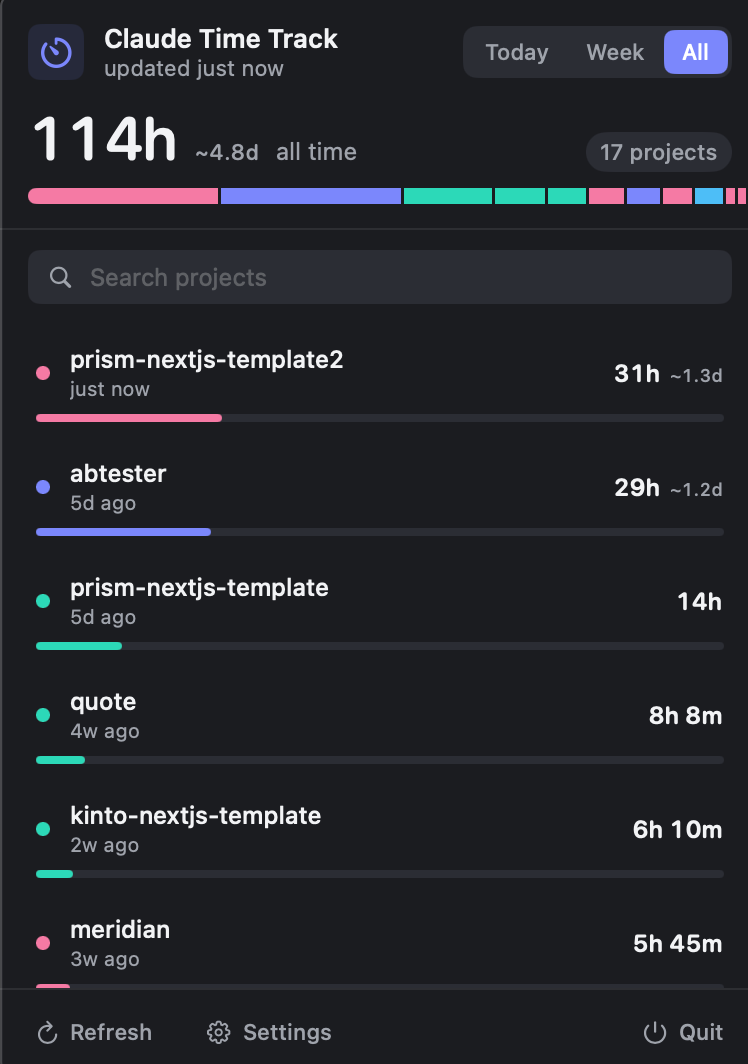
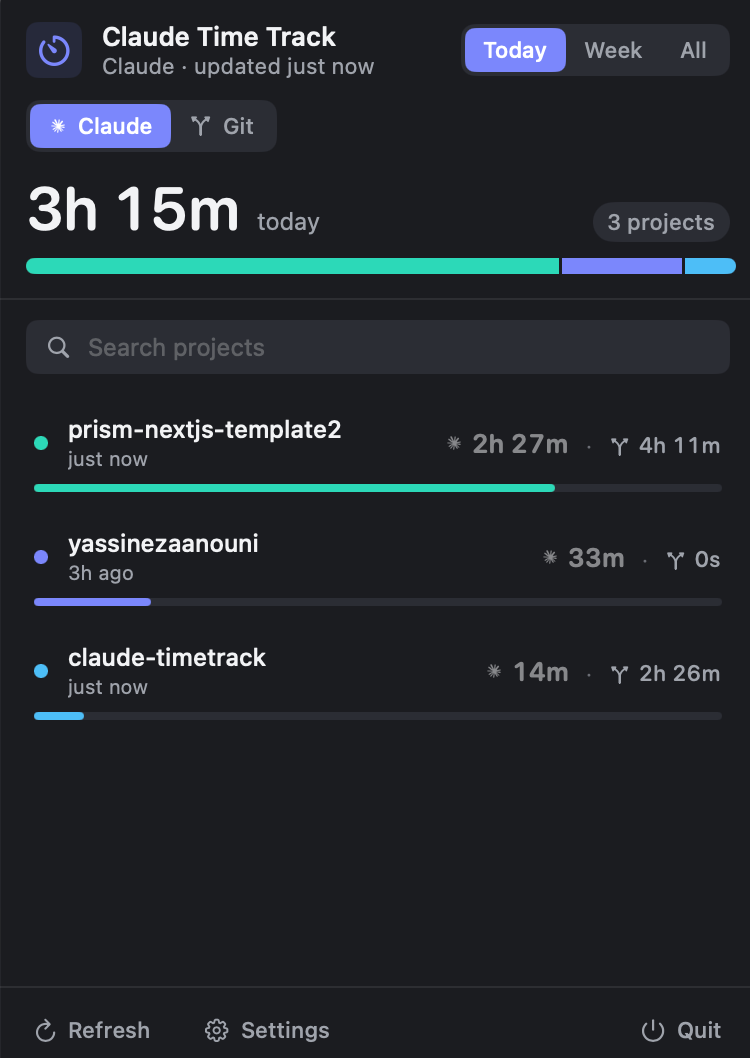
Fix Settings header gap, refresh README and screenshots
The Color.clear spacer in the Settings header had no height constraint,
so Color's height-greedy default stretched the HStack to fill the
popover, leaving the title vertically centered with huge whitespace
above and below. Pinned to height: 1.

Also tightened the README and replaced the screenshots with shots that
show the dual Claude/Git source UX.

diff --git a/Views/SettingsView.swift b/Views/SettingsView.swift
@@ -31,8 +31,8 @@ struct SettingsView: View {
 
                 Spacer()
 
-                // balance spacing
-                Color.clear.frame(width: 40)
+                // balance spacing so the title sits visually centered
+                Color.clear.frame(width: 40, height: 1)
             }
             .padding(.horizontal, 14)
             .padding(.top, 14)

diff --git a/README.md b/README.md
@@ -1,117 +1,43 @@
 # Claude Time Track
 
-A macOS menu bar app that shows how much time you've spent in each project,
-tracked automatically from Claude Code's session files in `~/.claude/projects/`.
+A macOS menu bar app that shows how much time you've spent in each project — tracked from Claude Code's session files and your git history. No instrumentation, no extension. If you use Claude Code or git, the data is already on disk.
 
-No instrumentation, no extension to install. If you use Claude Code, the data
-is already on disk.
-
-## Screenshots
-
-| Light Mode | Dark Mode |
+| Light | Dark |
 |---|---|
 | ![Light mode](screenshots/light-mode.png) | ![Dark mode](screenshots/dark-mode.png) |
 
+## Features
+
+- **Two data sources, side by side** — every project row shows both Claude session time and `git-hours` commit time. Tap either to make it the active view.
+- **Three ranges** — Today / Week / All time, with live totals in the menu bar.
+- **Stacked breakdown bar** — see at a glance which projects ate your day.
+- **Project detail view** — Today / Week / All-time stats, 14-day sparkline, last 20 sittings (Claude) or commit summary (Git).
+- **Appearance** — System / Light / Dark.
+- **Hands-off** — auto-refresh every minute, launch-at-login, hide projects you don't care about.
+
 ## How it works
 
-The app maintains two independent time estimates per project. Flip between
-them with the **Claude / Git** toggle in the header.
+**Claude mode.** Every Claude Code message has a `timestamp` and a `cwd`. The app parses every JSONL under `~/.claude/projects/`, resolves each event to its git repo root, and stitches consecutive events into sittings. Gaps longer than the idle threshold (default **15 min**) split sittings, so leaving Claude open overnight doesn't pad your numbers.
 
-### Claude mode
+**Git mode.** For each repo, the app runs `git log --no-merges --pretty=format:%aI` (filtered by your global `user.email`) and applies the [`git-hours`](https://github.com/kimmobrunfeldt/git-hours) heuristic: gaps **≤ 2 h** count as work; longer gaps mark a new session and add a flat **2 h** for the opening commit. Both thresholds are configurable. Cached per repo by `HEAD` SHA.
 
-Every Claude Code message is logged with a `timestamp` and a `cwd`. The app
-parses every session JSONL file under `~/.claude/projects/`, resolves each
-event to its git repo root, and groups them by project.
-
-Within each session file, consecutive events are stitched into "sittings".
-Any gap longer than the configured idle threshold (default **15 min**) splits
-a sitting; the active time of a sitting is the wall-clock span between its
-first and last message. Long idle gaps are dropped, so leaving Claude Code
-open overnight does not pad your numbers.
-
-### Git mode
-
-For each project root the app runs `git log --no-merges --pretty=format:%aI`
-(filtered by your global `user.email` by default) and applies the
-[`git-hours`](https://github.com/kimmobrunfeldt/git-hours) heuristic:
-
-- Sort commits by author timestamp.
-- For each consecutive pair, if the gap is **≤ 2 h** (configurable), add the
-  gap to the total. Otherwise treat it as the boundary of a new coding
-  session and add **2 h** instead (configurable).
-- The very first commit also gets the first-commit addition, since its
-  pre-history is unknown.
-
-Results are cached per repo by `HEAD` SHA so subsequent refreshes are free
-when nothing has changed.
-
-The menu bar title shows the total for the selected range — Today / This week
-/ All time — refreshed every minute by default.
-
-## Build & install
+## Install
 
 ```bash
 ./build_app.sh
 open ~/Applications/ClaudeTimeTrack.app
 ```
 
-The script:
-1. Compiles a release binary with SwiftPM
-2. Assembles `~/Applications/ClaudeTimeTrack.app` with a proper `Info.plist`
-   (`LSUIElement=true`, so the app is menu-bar-only)
-3. Ad-hoc codesigns the bundle so `SMAppService` will accept it for
-   launch-at-login
+The script compiles a release binary, assembles a `.app` bundle (`LSUIElement=true`, menu-bar-only), and ad-hoc codesigns it so `SMAppService` accepts it for launch-at-login. On first launch the app registers itself; toggle from Settings.
 
-On first launch the app registers itself for **launch at login** automatically
-via `SMAppService.mainApp.register()`. You can toggle this from Settings.
-
-## Features
-
-- **Two data sources** — flip between Claude Code session time and `git-hours`
-  commit estimates with one click
-- **Three time ranges** — Today, This week, All time, switchable from the header pill
-- **Live totals** in the menu bar title, refreshed every minute
-- **Stacked breakdown bar** at the top showing every project's share
-- **Per-project rows** — palette color, duration with day hint, last-active
-  label, and proportion bar. Hover reveals the path plus Reveal-in-Finder,
-  Hide, and Drill-in actions
-- **Project detail view** — Today / Week / All-time stats, session/commit
-  counts, a 14-day sparkline, and the last 20 sittings (Claude mode) or
-  commit summary (Git mode)
-- **Search** to filter projects by name or path
-- **Appearance** — System / Light / Dark
-- **Settings** — launch-at-login, Claude idle-gap (1–60 min), refresh interval
-  (15–600 s), Git max-gap and first-commit additions (15–480 min), filter by
-  your git email, max rows shown, hidden projects
-- **Adaptive theme** with a glassy `NSVisualEffectView` background
-
-## Development
+## Develop
 
 ```bash
 swift build
 .build/debug/ClaudeTimeTrack    # logs to stdout
 ```
 
-Requirements: macOS 14+, Swift 5.10+.
-
-## Project layout
-
-```
-Models/      SessionEvent, ProjectUsage (+ GitStats), TimeRange, TrackingSource, Theme
-Services/    SessionTracker (JSONL parser + per-file mtime cache),
-             GitHistoryAnalyzer (git-hours heuristic + HEAD-based cache),
-             GitRootResolver
-State/       AppState (@Observable, settings, launch-at-login, refresh timer)
-Utilities/   TimeFormat
-Views/       ContentView, MainView, HeaderView (+ TimeRangePicker, SourcePicker,
-             SearchBar), ProjectListView, ProjectRowView, ProjectDetailView,
-             FooterView, SettingsView
-```
-
-## Credits
-
-The git-mode estimate uses the algorithm from
-[`kimmobrunfeldt/git-hours`](https://github.com/kimmobrunfeldt/git-hours).
+Requires macOS 14+, Swift 5.10+.
 
 ## Uninstall
 
@@ -121,6 +47,10 @@ defaults delete com.yassinezaanouni.claudetimetrack
 ```
 
 Then unregister launch-at-login from System Settings → General → Login Items.
+
+## Credits
+
+Git-mode estimate uses the algorithm from [`kimmobrunfeldt/git-hours`](https://github.com/kimmobrunfeldt/git-hours).
 
 ## License
 
